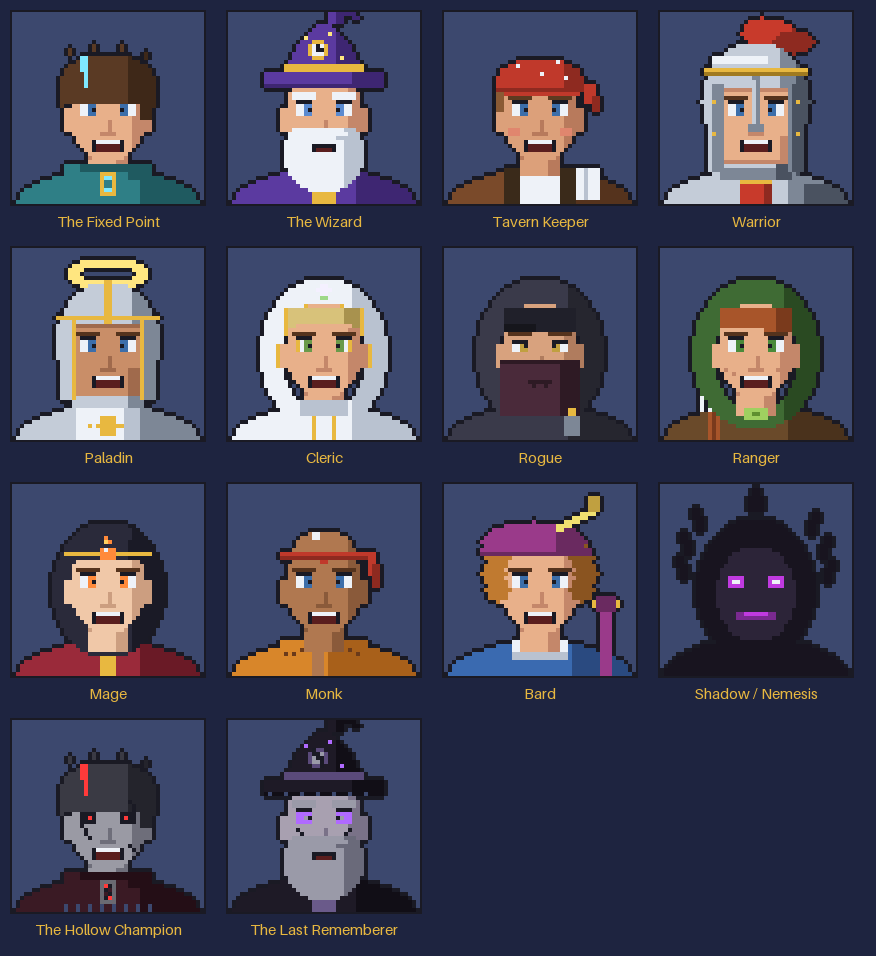
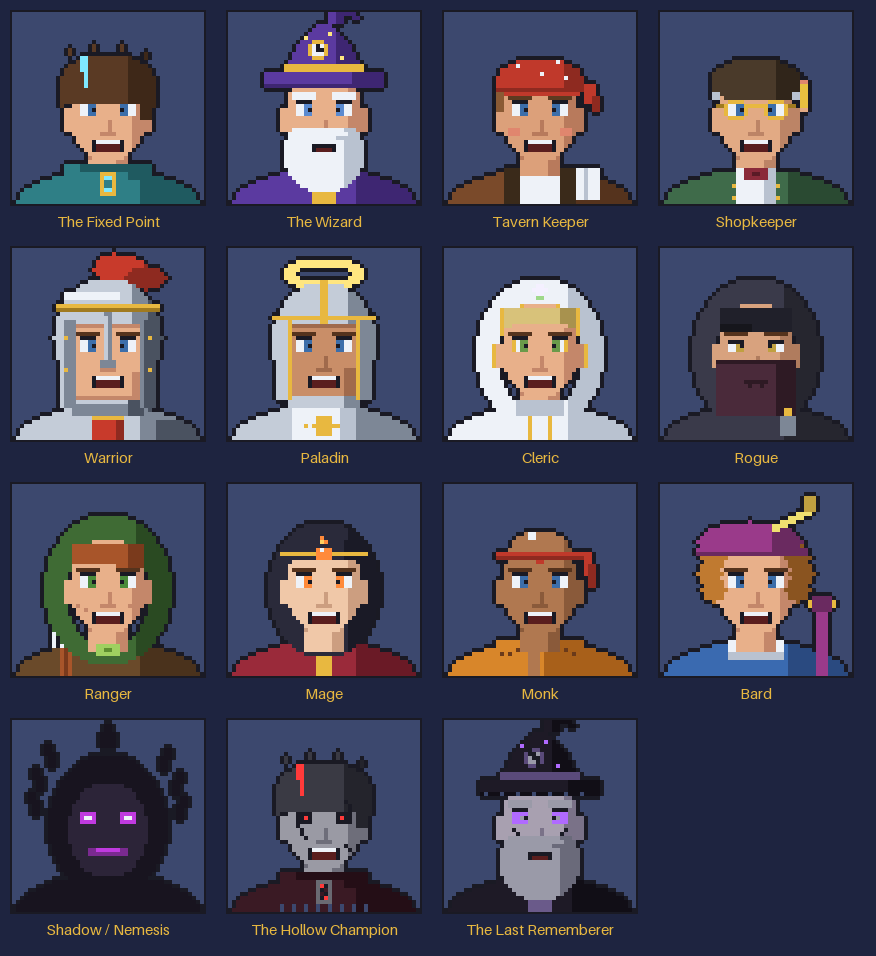
0.6.2: shopkeeper talking portrait
Claude-Session: https://claude.ai/code/session_016di4NyfpktUJ6rZLkcvxnU

diff --git a/index.html b/index.html
@@ -1035,9 +1035,9 @@ function keeperLines(){const F=flags();if(!F.keeperMet){return KEEPER_FIRST}if(!
 /* ======================= dialogue portraits ======================= */
 // 48x48 text portraits, run-length packed ("K3" = KKK). r = mouth closed rows, t = rows that change for the talking frame.
 // Source and preview: tools/portraits.py. Anyone who speaks should go through speak(key, label, lines).
-// Keys: hero, wizard, tavern, warrior, paladin, cleric, rogue, ranger, mage, monk, bard,
+// Keys: hero, wizard, tavern, shopkeeper, warrior, paladin, cleric, rogue, ranger, mage, monk, bard,
 // shadow (any speaking enemy, including a Nemesis), champion (Hollow Champion), rememberer (Last Rememberer).
-const PORTRAITS={"hero":{"n":"The Fixed Point","p":{"A":"#2f7f86","E":"#3c6eaa","G":"#e8b840","H":"#5a3a24","K":"#1a1a24","M":"#5a1e1e","P":"#7fe8ff","S":"#e8b08a","W":"#eef2f8","a":"#1f5a60","g":"#2f7f86","h":"#3e2818","s":"#c4876a"},"r":[".48",".48",".48",".48",".48",".48",".48",".20K.6K.20",".14K.4KHK.4KHK.19",".13KHK.3KHK.4KHK.4K.14",".13KHK.K13.2KhK.13",".14K.KP2H10hK3hK.13",".14K2HP2H10h3K2.14",".13KH3P2H10h5K.13",".12KH4P2H10h6K.12",".12KH5PH10h6K.12",".11KH6PH10h7K.11",".11KH6PH10h7K.11",".11KH6PH10h7K.11",".11KH17h7K.11",".11KH17h7K.11",".11KH17h7K.11",".11KH17h7K.11",".11KHK2S2W2E2S6E2W2sh4K.11",".12KS4W2EKS6KEW2sh3K.12",".12KS4W2E2S6E2W2sh3K.12",".12KS17s2h3K.12",".12KS11sS5s5K.12",".12KS11sS5s5K.12",".12KS11sS5s5K.12",".13K2S7s4S4s3K2.13",".15KS14s2K.15",".15KS14s2K.15",".16KS4sK4sS3sK.16",".17KS12K.17",".18KS10K.18",".18KsS8sK.18",".13K6S7s3K6.13",".12KA4a18K.12",".12KA4a18K.12",".10K3A9G4A3a6K3.10",".7K3A12GP2GA3a9K3.7",".5K2A15Gg2GA6a9K2.5",".3K2A17Gg2GA6a11K2.3",".2KA19GP2GA6a13K.2",".KA20G4A6a14K.",".KA30a14K.","KA31a15K"],"t":{"32":".15KS4KW6KS2s2K.15","33":".16KS3KM6KS2sK.16","34":".17KS2KM6KS2K.17"}},"wizard":{"n":"The Wizard","p":{"A":"#5b3aa0","C":"#e8b840","E":"#5a8ad0","G":"#e8b840","K":"#1a1a24","M":"#5a1e1e","P":"#ffe680","S":"#e8b08a","W":"#eef2f8","a":"#3e2672","s":"#c4876a","w":"#b9c2d0"},"r":[".24KA2a5K.15",".24KA2a2K2a2K.14",".22K3A2a2K.K2.15",".21KA4K3.19",".20KA6K.20",".19KA5PAaK.19",".18KPA7a2K.18",".17KA3G3A3a3K.17",".16KA3GWKWGA2a4K.16",".16KA3GWK2GA2a4K.16",".15KA4GW3GA2a5K.15",".15KA5G3A3aPa3K.15",".14KA12a6K.14",".13KG20K.13",".9K5G20K5.9",".8KA22a8K.8",".8KA22a8K.8",".8KA22a8K.8",".8Ka30K.8",".9K7S14s2K7.9",".14KSW6S4W6sK.14",".14KSW6S4W6sK.14",".14KS2K4S6K4s2K.14",".13K2S2W2E2S6E2W2s2K2.13",".12KS4W2EKS6KEW2s4K.12",".12KS4W2E2S6E2W2s4K.12",".12KS17s5K.12",".12KS11sS5s5K.12",".12KS11sS5s5K.12",".12KS3W13w3s3K.12",".13K2W15w3K2.13",".14KW12w6K.14",".13KW15w5K.13",".13KW7w6W2w5K.13",".13KW15w5K.13",".13KW15w5K.13",".13KW15w5K.13",".13KW15w5K.13",".13KW15w5K.13",".13K2W14w4K2.13",".10K3A2W14w4a2K3.10",".7K3A6W13w3a6K3.7",".5K2A10W12w2Aa9K2.5",".3K2A13W11wA2a11K2.3",".2KA17W8A4a13K.2",".KA19C6A5a14K.",".KA19C6A5a14K.","KA20C6A5a15K"],"t":{"33":".13KW7K6W2w5K.13","34":".13KW7KM4KW2w5K.13"}},"tavern":{"n":"Tavern Keeper","p":{"A":"#7a4a2a","C":"#3a2a1a","E":"#3c6eaa","H":"#8a5a34","K":"#1a1a24","M":"#5a1e1e","P":"#c0392b","R":"#e0866e","S":"#dca07a","W":"#eef2f8","a":"#55331d","h":"#5e3a20","p":"#8e2a20","s":"#b87a5c","w":"#b9c2d0"},"r":[".48",".48",".48",".48",".48",".48",".48",".48",".48",".48",".48",".18K12.18",".16K2P10WPK2.16",".14K2P2WP11p2K2.14",".13KP16p4K.13",".13KP10WP5p4K.13",".12KP17Wp4K.12",".12KP17p5K3.10",".12KP17p5P3K.9",".12Kp22P3K.9",".12KH2P19KP3K.9",".12KH2Sh6S4h6sK2P2p2K.8",".12KH2S2K4S6K4s2K2P2p2K.8",".12KH2S2W2E2S6E2W2s2K4p2K.8",".12KH2S2W2EKS6KEW2s4K2p2K.8",".12KS4W2E2S6E2W2s4K.K2.9",".12KS17s5K.12",".12KS11sS5s5K.12",".12KS11sS5s5K.12",".12KS3R3S5sS4R3s3K.12",".13K2SR3S3s4S3R3sK2.13",".15KS14s2K.15",".15KS14s2K.15",".16KS4sK4sS3sK.16",".17KS12K.17",".18KS10K.18",".18KsS8sK.18",".18KS7s3K.18",".15K4S7s3K10.9",".13K2C4S7s3C4W2wW3K.8",".10K3A2C4S7s3C4W2wW3K.8",".7K3A5C4W10C4W2wW3K2.7",".5K2A8C4W10C4W2wW3a2K2.5",".3K2A10C4W10C4W2wW3a4K2.3",".2KA12C4W10C4W2wW3a6K.2",".KA13C4W10C4W2wW3a7K.",".KA13C4W10C4W2wW3a7K.","KA14C4W10C4a14K"],"t":{"32":".15KS4KW6KS2s2K.15","33":".16KS3KM6KS2sK.16","34":".17KS2KM6KS2K.17"}},"warrior":{"n":"Warrior","p":{"A":"#c83a2b","B":"#55331d","D":"#4a5260","E":"#3c6eaa","G":"#e8b840","K":"#1a1a24","M":"#5a1e1e","S":"#e8b08a","W":"#eef2f8","X":"#c4ccd8","a":"#8e2a20","g":"#a07a20","s":"#c4876a","x":"#7d8796"},"r":[".25K.22",".22K3AK5.17",".21KA9K2.15",".20KA12K.14",".20KA12aK3.11",".19KA10a7K.10",".20KA8a9K.9",".19K3A6a11K.8",".17K2X10a9K.9",".16KX13xa6K.10",".13K3X14x2KaK3.11",".12KW14X3x3K.14",".12KW14X3x4K.13",".11K2X17x4DK2.11",".10KG26K.10",".10Kg26K.10",".11KX11x2X5x4D2K.11",".10KX13xX5x4D3K.10",".10KX2x3X8xX5x3D4K.10",".10KX2x3s7Xxs7xD4K.10",".10KX2x3S7XxS7xD4K.10",".10KX2x3B6SXxSB6xD4K.10",".9KX3Gx2SK4S2XxS2K4SxDGD3K.9",".10KX2x3SW2E2S2XxS2E2W2SxD4K.10",".10KX2x3SW2EKS2XxS2KEW2SxD4K.10",".10KX2x3SW2E2S2XxS2E2W2SxD4K.10",".10KX2x3S7XxS7xD4K.10",".10KX2x3S7XxS7xD4K.10",".11KXx3S6x4S6xD3K.11",".11KXx3S6x4S6xD3K.11",".11KXGx2S6s4S6xDGDK.11",".11KXx3S14s2xD3K.11",".11KXx3S14s2xD3K.11",".11KXx3S5sK4sS3s2xD3K.11",".11KXx3S14s2xD3K.11",".11KXx3S14s2xD3K.11",".11KXx3S14s2xD3K.11",".11KXx3s16xD3K.11",".11KXx3X13D3xD3K.11",".11KXx16D3xD3K.11",".10K3X2x14D4xDK3.10",".7K3X5x14D4x5K3.7",".5K2X13G8X4x9K2.5",".3K2X15A6a2X4x4D7K2.3",".2KX17A6a2X4x4D9K.2",".KX18A6a2X4x4D10K.",".KX18A6a2X4x4D10K.","KX19A6a2X4x4D11K"],"t":{"32":".11KXx3S4KW6KS2s2xD3K.11","33":".11KXx3S4KM6KS2s2xD3K.11","34":".11KXx3S4KM6KS2s2xD3K.11"}},"paladin":{"n":"Paladin","p":{"B":"#55331d","E":"#3c6eaa","G":"#e8b840","K":"#1a1a24","M":"#5a1e1e","P":"#ffe680","S":"#c98e68","W":"#eef2f8","X":"#c4ccd8","s":"#a06a4c","w":"#b9c2d0","x":"#7d8796"},"r":[".48",".48",".17K14.17",".15K2P14K2.15",".14KP18K.14",".13KP4K12P4K.13",".13KP3K.12KP3K.13",".13KP4K12P4K.13",".14KP8G2P8K.14",".15K2P2X4G2X4P2K2.15",".16K2X5G2X5K2.16",".15KX7G2X5x2K.15",".14KX8G2X5x3K.14",".13KX9G2X5x4K.13",".13KX9G2X5x4K.13",".12KX10G2X5x5K.12",".11K2X10G2X5x5K2.11",".10KG26K.10",".11KX3GX7G2X5x2Gx3K.11",".10KX4Gs16Gx4K.10",".10KX4GS16Gx4K.10",".10KX4GB6S4B6Gx4K.10",".10KX4GSK4S6K4SGx4K.10",".10KX4GSW2E2S6E2W2SGx4K.10",".10KX4GSW2EKS6KEW2SGx4K.10",".10KX4GSW2E2S6E2W2SGx4K.10",".10KX4GS16Gx4K.10",".10KX4GS8sS7Gx4K.10",".11KX3GS8sS7Gx3K.11",".11KX3GS8sS7Gx3K.11",".11KX3GS6s4S3s3Gx3K.11",".11KX3GS13s3Gx3K.11",".11KX3GS13s3Gx3K.11",".11KX3GS5sK4sS2s3Gx3K.11",".11KX3GS13s3Gx3K.11",".11KX3GS13s3Gx3K.11",".11KX3GS13s3Gx3K.11",".11KX3GX13x3Gx3K.11",".12K3X14x4K3.12",".13K2X14x4K2.13",".10K3X3W12w4x3K3.10",".7K3X6W12w4x6K3.7",".5K2X9W6G4W2w4x9K2.5",".3K2X11W6G4W2w4x11K2.3",".2KX13W3GWG7w4x13K.2",".KX14W6G4W2w4x14K.",".KX14W6G4W2w4x14K.","KX15W12w4x15K"],"t":{"32":".11KX3GS4KW6KSs3Gx3K.11","33":".11KX3GS4KM6KSs3Gx3K.11","34":".11KX3GS4KM6KSs3Gx3K.11"}},"cleric":{"n":"Cleric","p":{"B":"#55331d","E":"#6a9a4a","G":"#e8b840","H":"#d8c27a","K":"#1a1a24","M":"#5a1e1e","P":"#f4f0ff","S":"#e8b08a","W":"#eef2f8","h":"#a8924e","p":"#9fd88a","s":"#c4876a","w":"#b9c2d0"},"r":[".48",".48",".48",".48",".48",".48",".48",".19K10.19",".17K2W10K2.17",".15K2W6P2W6K2.15",".14KW7P4W5w2K.14",".13KW9P2W6w3K.13",".12KW10p2W6w4K.12",".11KW19w5K.11",".11KW7GS8GW2w5K.11",".10KW3GH14h4Gw3K.10",".9KW4GH14h4Gw4K.9",".9KW4GH14h4Gw4K.9",".8KW5GH14h4Gw5K.8",".8KW5GH2S14h2Gw5K.8",".8KW5GS15s3Gw5K.8",".8KW5GSB6S4B6sGw5K.8",".7KW6KS2K4S6K4s2Kw6K.7",".7KW6KS2GWE2S6E2WGs2Kw6K.7",".7KW4GS4GWEKS6KEWGs4Gw4K.7",".7KW4GS4GWE2S6E2WGs4Gw4K.7",".7KW4GS17s5Gw4K.7",".7KW4GS11sS5s5Gw4K.7",".7KW4GS11sS5s5Gw4K.7",".7KW4GS11sS5s5Gw4K.7",".7KW6KS7s4S4s3Kw6K.7",".8KW5K2S14s2K2w5K.8",".8KW5K2S14s2K2w5K.8",".8KW6K2S4sK4sS3sK2w6K.8",".8KW6K.KS12K.Kw6K.8",".9KW6K.KS10K.Kw6K.9",".9KW6K.KsS8sK.Kw6K.9",".10KW6K2S7s3K2w6K.10",".11KW6w12Ww5K.11",".11KW6w12Ww5K.11",".10K3W5w12Ww4K3.10",".7K3W8w12Ww7K3.7",".5K2W14GW4GW4w10K2.5",".3K2W16GW4GW4w12K2.3",".2KW18GW4GW4w14K.2",".KW19GW4GW4w15K.",".KW19GW4GW4w15K.","KW20GW4GW4w16K"],"t":{"32":".8KW5K2S4KW6KS2s2K2w5K.8","33":".8KW6K2S3KM6KS2sK2w6K.8","34":".8KW6K.KS2KM6KS2K.Kw6K.8"}},"rogue":{"n":"Rogue","p":{"A":"#3a3a4a","B":"#55331d","C":"#4a2a3a","E":"#c0a040","G":"#e8b840","H":"#20202a","K":"#1a1a24","S":"#d8a27e","W":"#eef2f8","a":"#26262f","c":"#2e1a24","h":"#16161c","s":"#b07c5e","x":"#7d8796"},"r":[".48",".48",".48",".48",".48",".48",".48",".19K10.19",".17K2A10K2.17",".15K2A14K2.15",".14KA16a2K.14",".13KA17a3K.13",".12KA18a4K.12",".11KA19a5K.11",".11KA8S8A3a5K.11",".10KA4H18a4K.10",".9KA5H18a5K.9",".9KA5H18a5K.9",".8KA6H18a6K.8",".8KA6h8H10a6K.8",".8KA6h8H10a6K.8",".8KA6SB6S4B6sa6K.8",".7KA6KS15s3Ka6K.7",".7KA6KS2K4S6K4s2Ka6K.7",".7KA5S4W2EKS6KEW2s4a5K.7",".7KA5S4W2E2S6E2W2s4a5K.7",".7KA5S17s5a5K.7",".7KA5S11sS5s5a5K.7",".7KA5Sc20sa5K.7",".7KA5SC15c5sa5K.7",".7KA6C15c5a6K.7",".8KA5C15c5a5K.8",".8KA5C15c5a5K.8",".8KA5C15c5a5K.8",".8KA5C15c5a5K.8",".9KA4C15c5a4K.9",".9KA4C15c5a4K.9",".10KA3C15c5a3K.10",".11KA2C15c5a2K.11",".11KA2C15c5a2K.11",".10K3AC15c2G2caK3.10",".7K3A4C15c2G2ca4K3.7",".5K2A23x4a7K2.5",".3K2A25x4a9K2.3",".2KA27x4a11K.2",".KA28x4a12K.",".KA28x4a12K.","KA30a16K"],"t":{"33":".8KA5C7c6C2c5a5K.8","34":".8KA5C8cC2cC3c5a5K.8"}},"ranger":{"n":"Ranger","p":{"A":"#3f6b34","B":"#55331d","C":"#6a4a2a","E":"#4a8a3a","G":"#9fd060","H":"#a8552a","K":"#1a1a24","M":"#5a1e1e","S":"#e8b08a","W":"#eef2f8","a":"#2a4a22","c":"#4a321c","g":"#5f9030","h":"#7a3a1c","s":"#c4876a"},"r":[".48",".48",".48",".48",".48",".48",".48",".19K10.19",".17K2A10K2.17",".15K2A14K2.15",".14KA16a2K.14",".13KA17a3K.13",".12KA18a4K.12",".11KA19a5K.11",".11KA8S8A3a5K.11",".10KA4H14h4a4K.10",".9KA5H14h4a5K.9",".9KA5H14h4a5K.9",".8KA6H14h4a6K.8",".8KA6H14h4a6K.8",".8KA6S11H3h4a6K.8",".8KA6SB6S4B6sa6K.8",".7KA6KS2K4S6K4s2Ka6K.7",".7KA6KS2W2E2S6E2W2s2Ka6K.7",".7KA5S4W2EKS6KEW2s4a5K.7",".7KA5S4W2E2S6E2W2s4a5K.7",".7KA5S17s5a5K.7",".7KA5S11sS5s5a5K.7",".7KA5S11sS5s5a5K.7",".7KA5S11sS5s5a5K.7",".7KA6KSsS5s4S3s4Ka6K.7",".8KA5K2S2sS11s2K2a5K.8",".8KA5K2S14s2K2a5K.8",".8KA6K2S4sK4sS3sK2a6K.8",".8KA6K.KS12K.Ka6K.8",".9KA6K.KS10K.Ka6K.9",".9KA6K.KsS8sK.Ka6K.9",".9KWA6K2S7s3K2a6K.10",".9KWKA6KS7s3KAa5K.11",".9KWKA7S7s3A2a5K.11",".9KWKWA6S2G6s2A2a4K3.10",".7K3C2HhA5S2G2g2G2s2A2a3c4K3.7",".5K2C5HhHA6G6A4a2c8K2.5",".3K2C7HhHC2A14Cc11K2.3",".2KC9HhHC4A10C3c13K.2",".KC10HhHC17c14K.",".KC10HhHC17c14K.","KC11HhHC17c15K"],"t":{"32":".8KA5K2S4KW6KS2s2K2a5K.8","33":".8KA6K2S3KM6KS2sK2a6K.8","34":".8KA6K.KS2KM6KS2K.Ka6K.8"}},"mage":{"n":"Mage","p":{"A":"#9a2a3a","B":"#55331d","G":"#e8b840","H":"#2a2a3a","K":"#1a1a24","M":"#5a1e1e","P":"#ff8a3a","S":"#f0c8a8","W":"#eef2f8","a":"#6a1a26","h":"#1a1a26","p":"#ffd060","s":"#cc9e80"},"r":[".48",".48",".48",".48",".48",".48",".48",".48",".48",".19K10.19",".17K2H10K2.17",".16KH13hK.16",".15KH14h2K.15",".14KH8PH6h3K.14",".13KH9pPH4h5K.13",".12KH16h6K.12",".12KH9PWP2H3h6K.12",".11KHG9P4G9hK.11",".11KH10P4H3h7K.11",".10KH5S14s2h5K.10",".10KH4S15s3h4K.10",".10KH4SB6S4B6sh4K.10",".9KH5S2K4S6K4s2h5K.9",".9KH5S2W2P2S6P2W2s2h5K.9",".9KH3S4W2PKS6KPW2s4h3K.9",".9KH3S4W2P2S6P2W2s4h3K.9",".9KH3S17s5h3K.9",".9KH3S11sS5s5h3K.9",".9KH3S11sS5s5h3K.9",".9KH3S11sS5s5h3K.9",".9KH5S7s4S4s3h5K.9",".10KH5S14s2h5K.10",".10KH5S14s2h5K.10",".10KH6S4sK4sS3sh6K.10",".11KH6S12h6K.11",".11KH7S10Hh6K.11",".12KH6sS8sHh5K.12",".12KH6S7s3Hh5K.12",".13KH5S7s3Hh4K.13",".13K2H4S7s3Hh3K2.13",".10K3A3H3S7s3Hh2a3K3.10",".7K3A7H2S7s3HhAa6K3.7",".5K2A12H10A3a9K2.5",".3K2A17G4A6a11K2.3",".2KA19G4A6a13K.2",".KA20G4A6a14K.",".KA20G4A6a14K.","KA21G4A6a15K"],"t":{"32":".10KH5S4KW6KS2s2h5K.10","33":".10KH6S3KM6KS2sh6K.10","34":".11KH6S2KM6KS2h6K.11"}},"monk":{"n":"Monk","p":{"A":"#d8862a","B":"#55331d","C":"#c0392b","E":"#3c6eaa","H":"#6a3a1a","K":"#1a1a24","M":"#5a1e1e","P":"#c0392b","S":"#b07850","W":"#eef2f8","a":"#a8601a","c":"#8e2a20","s":"#8a5a3a"},"r":[".48",".48",".48",".48",".48",".48",".48",".48",".48",".48",".48",".20K8.20",".18K2SW2S5K2.18",".17KS3W2S7K.17",".16KS13sK.16",".16KS13sK.16",".13K3S14s2K5.11",".12KC24K.10",".12Kc22C2K.10",".13K3S7P2S5s2K3C2K.10",".14KS15s3K2Cc2K.9",".14KSB6S4B6sK2Cc2K.9",".14KS2K4S6K4s2K2Cc2K.9",".13K2S2W2E2S6E2W2s2K3c2K.9",".12KS4W2EKS6KEW2s4Kc2K.9",".12KS4W2E2S6E2W2s4Kc2K.9",".12KS17s5K3.10",".12KS11sS5s5K.12",".12KS11sS5s5K.12",".12KS11sS5s5K.12",".13K2S7s4S4s3K2.13",".15KS14s2K.15",".15KS14s2K.15",".16KS4sK4sS3sK.16",".17KS12K.17",".18KS10K.18",".18KsS8sK.18",".18KS7s3K.18",".13K6S7s3K6.13",".12KA6S7s3a6K.12",".10K3A6S7s3a6K3.10",".7K3A8HS7s3aHa7K3.7",".5K2A7HAHA4S3Aa7Ha8K2.5",".3K2A16S3Aa18K2.3",".2KA18S3Aa20K.2",".KA19S3Aa21K.",".KA19S3Aa21K.","KA20S3Aa22K"],"t":{"32":".15KS4KW6KS2s2K.15","33":".16KS3KM6KS2sK.16","34":".17KS2KM6KS2K.17"}},"bard":{"n":"Bard","p":{"A":"#3a6ab0","B":"#55331d","C":"#9a3a8a","E":"#3c6eaa","G":"#e8b840","H":"#c07a30","K":"#1a1a24","M":"#5a1e1e","P":"#f0e070","S":"#e8b08a","W":"#eef2f8","a":"#2a4a80","c":"#6a2a60","h":"#8a5420","p":"#c0a040","s":"#c4876a","w":"#b9c2d0"},"r":[".48",".48",".36K3.9",".35Kp3K.8",".35Kp3K.8",".35Kp3K.8",".34K2p3K.8",".32K2P4K.9",".22K.7K2P4K2.10",".15K7CK7P4K2.12",".12K3C13P4K2.14",".11KC16P2c3K.14",".10KC17c6K.13",".9KC18c7K.12",".8KC19c8K.11",".9KC18c7hK.11",".8KC19c9K.10",".8Kc28K.10",".9KH7S13sh7K.9",".10KH5S14s2h5K.10",".9KH6S14s2h6K.9",".9KH5SB6S4B6sh5K.9",".8KH7SK4S6K4sh7K.8",".9KH5S2W2E2S6E2W2s2h5K.9",".9KH6SW2EKS6KEW2sh6K.9",".10KH5SW2E2S6E2W2sh5K.10",".9KH7S13sh7K.9",".10KH5S8sS5s2h5K6.5",".10KH5S8sS5s2h5Kc5K.4",".11K2HS10sS5s4hK2Gc5GK.3",".13K2S7s4S4s3K2.KGc5GK.3",".15KS14s2K.4Kc5K.4",".15KS14s2K.5KC3K.5",".16KS4sK4sS3sK.6KC3K.5",".17KS12K.7KC3K.5",".18KS10K.8KC3K.5",".18KsS8sK.8KC3K.5",".18KS7s3K.8KC3K.5",".17K2S7s3K2.7KC3K.5",".13K4W2S7s3W2K4.3KC3K.5",".10K3A4W2S7s3W2Aa3K4C3K.5",".7K3A7W2S7s3W2Aa6KC3K.5",".5K2A10w14Aa7C3K.5",".3K2A12w14Aa7C3aK2.3",".2KA29a7C3a3K.2",".KA30a7C3a4K.",".KA30a7C3a4K.","KA31a7C3a5K"],"t":{"32":".15KS4KW6KS2s2K.5KC3K.5","33":".16KS3KM6KS2sK.6KC3K.5","34":".17KS2KM6KS2K.7KC3K.5"}},"shadow":{"n":"Shadow / Nemesis","p":{"A":"#18141f","K":"#1a1a24","P":"#c03ae0","W":"#eef2f8","a":"#2c2438","p":"#7a2a90"},"r":[".23K2.23",".22KA2K.22",".22KA2K.22",".21KA4K.21",".21KA4K.21",".8K2.11KA4K.21",".7KA2K.10KA4K.11K2.8",".7KA2K.11K4.11KA2K.7",".7KA3K.7K10.8KA2K.7",".8KA2K.5K2A10K2.5KA3K.7",".8KA2K.4KA14K.4KA2K.8",".5K2.KA2K.3KA16K.3KA2K.8",".4KA2K.K2.3KA18K.2KA2K.K2.5",".4KA2K.5KA20K.2K2.KA2K.4",".4KA3K.3KA22K.4KA2K.4",".5KA2K.2KA24K.2KA3K.4",".5KA2K.2KA8a8A8K.2KA2K.5",".4K2A2K.KA7a12A7K.KA2K.5",".3KA2K2.2KA6a14A6K.KA2K2.4",".3KA2K.2KA7a14A7K.K2A2K.3",".3KA3K.KA6a16A6K.2KA2K.3",".4KA2K.KA5a18A5K.KA3K.3",".4KA2K2A6a18A6K2A2K.4",".4KA2K2A6a2P4a6P4a2A6K2A2K.4",".5K2.KA5a3P4a6P4a3A5K2A2K.4",".8KA5a3P4a6P4a3A5K.K2.5",".8KA5a20A5K.8",".8KA5a20A5K.8",".8KA5a20A5K.8",".8KA5a20A5K.8",".8KA5a20A5K.8",".9KA5a18A5K.9",".9KA5a18A5K.9",".9KA5a6p6a6A5K.9",".10KA5a16A5K.10",".10KA6a14A6K.10",".11KA5a14A5K.11",".11KA6a12A6K.11",".12KA7a8A7K.12",".10K4A20K4.10",".8K2A28K2.8",".6K2A32K2.6",".4K2A36K2.4",".3KA40K.3",".2KA42K.2",".KA44K.","KA46K","KA46K"],"t":{"24":".5K2.KA5a3PW2Pa6PW2Pa3A5K2A2K.4","32":".9KA5a4p2P6p2a4A5K.9","33":".9KA5a4p10a4A5K.9"}},"champion":{"n":"The Hollow Champion","p":{"A":"#3a1a24","G":"#6a6a72","H":"#3a3a44","K":"#1a1a24","M":"#5a1e1e","P":"#ff3a3a","S":"#9a9aa4","W":"#eef2f8","a":"#240e16","g":"#3a1a24","h":"#24242c","s":"#6e6e7a"},"r":[".48",".48",".48",".48",".48",".48",".48",".20K.6K.20",".14K.4KHK.4KHK.19",".13KHK.3KHK.4KHK.4K.14",".13KHK.K13.2KhK.13",".14K.KP2H10hK3hK.13",".14K2HP2H10h3K2.14",".13KH3P2H10h5K.13",".12KH4P2H10h6K.12",".12KH5PH10h6K.12",".11KH6PH10h7K.11",".11KH6PH10h7K.11",".11KH6PH10h7K.11",".11KH17h7K.11",".11KH17Kh6K.11",".11KH17hKh5K.11",".11KH17hKh5K.11",".11KHK2S2K4S6K4sh4K.11",".12KS4K2PKS6KPK2sh3K.12",".12KS4K4S6K4sh3K.12",".12KS4KS12s2h3K.12",".12KS5KS5sS5s5K.12",".12KS5KS5sS5s5K.12",".12KS6KS4sS5s5K.12",".13K2S7s4S4s3K2.13",".15KS13Ks2K.15",".15KS14KsK.15",".16KS4sK4sS3sK.16",".17KS12K.17",".18KS10K.18",".18KsS8sK.18",".13K6S7s3K6.13",".12KA4a18K.12",".12KA4a18K.12",".10K3A9G4A3a6K3.10",".7K3A12GPKGA3a9K3.7",".5K2A15GKgGA6a9K2.5",".3K2A17GgKGA6a11K2.3",".2KA19GKPGA6a13K.2",".KA20G4A6a14K.",".KA11.A2.A2.A2.A2.A2.A2.a2.a11K.","KA12.A2.A2.A2.A2.A2.A2.a2.a12K"],"t":{"32":".15KS4KW6KS2KsK.15","33":".16KS3KM6KS2sK.16","34":".17KS2KM6KS2K.17"}},"rememberer":{"n":"The Last Rememberer","p":{"A":"#1e1a26","C":"#6a5a8a","G":"#5a4a7a","K":"#1a1a24","M":"#5a1e1e","P":"#b06aff","S":"#a8a0b0","W":"#9a9aa8","a":"#110e16","s":"#7a7288","w":"#6a6a7a"},"r":[".24KA2a5K.15",".24KA2a2K2a2K.14",".22K3A2a2K.K2.15",".21KA4K3.19",".20KA6K.20",".19KA5PAaK.19",".18KPA7a2K.18",".17KA3KG2A3a3K.17",".16KA3GK2WGA2a4K.16",".16KA3GWK2GA2a4K.16",".15KA4GW2KGA2a5K.15",".15KA5G2KA3aPa3K.15",".14KA12a6K.14",".13KG20K.13",".9K5G20K5.9",".8KA22a8K.8",".8KA22a8K.8",".8KA22a8K.8",".8Ka.a3.a3.a3.a3.a3.a3.a4K.8",".9K7S14s2K7.9",".14KSW6S4W6sK.14",".14KSW6S4W6sK.14",".14KS2K4S6K4s2K.14",".13K2S2P4S6P4s2K2.13",".12KS4P2WKS6KWP2s4K.12",".12KS4P4S6P4s4K.12",".12KS17s5K.12",".12KS4KS6sS5Ks4K.12",".12KS5KS5sS4Ks5K.12",".12KS3W13w3s3K.12",".13K2W15w3K2.13",".14KW12w6K.14",".13KW15w5K.13",".13KW7w6W2w5K.13",".13KW15w5K.13",".13KW15w5K.13",".13KW15w5K.13",".13KW15w5K.13",".13KW15w5K.13",".13K2W14w4K2.13",".10K3A2W14w4a2K3.10",".7K3A6W13w3a6K3.7",".5K2A10W12w2Aa9K2.5",".3K2A13W11wA2a11K2.3",".2KA17W8A4a13K.2",".KA19C6A5a14K.",".KA19C6A5a14K.","KA20C6A5a15K"],"t":{"33":".13KW7K6W2w5K.13","34":".13KW7KM4KW2w5K.13"}}};
+const PORTRAITS={"hero":{"n":"The Fixed Point","p":{"A":"#2f7f86","E":"#3c6eaa","G":"#e8b840","H":"#5a3a24","K":"#1a1a24","M":"#5a1e1e","P":"#7fe8ff","S":"#e8b08a","W":"#eef2f8","a":"#1f5a60","g":"#2f7f86","h":"#3e2818","s":"#c4876a"},"r":[".48",".48",".48",".48",".48",".48",".48",".20K.6K.20",".14K.4KHK.4KHK.19",".13KHK.3KHK.4KHK.4K.14",".13KHK.K13.2KhK.13",".14K.KP2H10hK3hK.13",".14K2HP2H10h3K2.14",".13KH3P2H10h5K.13",".12KH4P2H10h6K.12",".12KH5PH10h6K.12",".11KH6PH10h7K.11",".11KH6PH10h7K.11",".11KH6PH10h7K.11",".11KH17h7K.11",".11KH17h7K.11",".11KH17h7K.11",".11KH17h7K.11",".11KHK2S2W2E2S6E2W2sh4K.11",".12KS4W2EKS6KEW2sh3K.12",".12KS4W2E2S6E2W2sh3K.12",".12KS17s2h3K.12",".12KS11sS5s5K.12",".12KS11sS5s5K.12",".12KS11sS5s5K.12",".13K2S7s4S4s3K2.13",".15KS14s2K.15",".15KS14s2K.15",".16KS4sK4sS3sK.16",".17KS12K.17",".18KS10K.18",".18KsS8sK.18",".13K6S7s3K6.13",".12KA4a18K.12",".12KA4a18K.12",".10K3A9G4A3a6K3.10",".7K3A12GP2GA3a9K3.7",".5K2A15Gg2GA6a9K2.5",".3K2A17Gg2GA6a11K2.3",".2KA19GP2GA6a13K.2",".KA20G4A6a14K.",".KA30a14K.","KA31a15K"],"t":{"32":".15KS4KW6KS2s2K.15","33":".16KS3KM6KS2sK.16","34":".17KS2KM6KS2K.17"}},"wizard":{"n":"The Wizard","p":{"A":"#5b3aa0","C":"#e8b840","E":"#5a8ad0","G":"#e8b840","K":"#1a1a24","M":"#5a1e1e","P":"#ffe680","S":"#e8b08a","W":"#eef2f8","a":"#3e2672","s":"#c4876a","w":"#b9c2d0"},"r":[".24KA2a5K.15",".24KA2a2K2a2K.14",".22K3A2a2K.K2.15",".21KA4K3.19",".20KA6K.20",".19KA5PAaK.19",".18KPA7a2K.18",".17KA3G3A3a3K.17",".16KA3GWKWGA2a4K.16",".16KA3GWK2GA2a4K.16",".15KA4GW3GA2a5K.15",".15KA5G3A3aPa3K.15",".14KA12a6K.14",".13KG20K.13",".9K5G20K5.9",".8KA22a8K.8",".8KA22a8K.8",".8KA22a8K.8",".8Ka30K.8",".9K7S14s2K7.9",".14KSW6S4W6sK.14",".14KSW6S4W6sK.14",".14KS2K4S6K4s2K.14",".13K2S2W2E2S6E2W2s2K2.13",".12KS4W2EKS6KEW2s4K.12",".12KS4W2E2S6E2W2s4K.12",".12KS17s5K.12",".12KS11sS5s5K.12",".12KS11sS5s5K.12",".12KS3W13w3s3K.12",".13K2W15w3K2.13",".14KW12w6K.14",".13KW15w5K.13",".13KW7w6W2w5K.13",".13KW15w5K.13",".13KW15w5K.13",".13KW15w5K.13",".13KW15w5K.13",".13KW15w5K.13",".13K2W14w4K2.13",".10K3A2W14w4a2K3.10",".7K3A6W13w3a6K3.7",".5K2A10W12w2Aa9K2.5",".3K2A13W11wA2a11K2.3",".2KA17W8A4a13K.2",".KA19C6A5a14K.",".KA19C6A5a14K.","KA20C6A5a15K"],"t":{"33":".13KW7K6W2w5K.13","34":".13KW7KM4KW2w5K.13"}},"tavern":{"n":"Tavern Keeper","p":{"A":"#7a4a2a","C":"#3a2a1a","E":"#3c6eaa","H":"#8a5a34","K":"#1a1a24","M":"#5a1e1e","P":"#c0392b","R":"#e0866e","S":"#dca07a","W":"#eef2f8","a":"#55331d","h":"#5e3a20","p":"#8e2a20","s":"#b87a5c","w":"#b9c2d0"},"r":[".48",".48",".48",".48",".48",".48",".48",".48",".48",".48",".48",".18K12.18",".16K2P10WPK2.16",".14K2P2WP11p2K2.14",".13KP16p4K.13",".13KP10WP5p4K.13",".12KP17Wp4K.12",".12KP17p5K3.10",".12KP17p5P3K.9",".12Kp22P3K.9",".12KH2P19KP3K.9",".12KH2Sh6S4h6sK2P2p2K.8",".12KH2S2K4S6K4s2K2P2p2K.8",".12KH2S2W2E2S6E2W2s2K4p2K.8",".12KH2S2W2EKS6KEW2s4K2p2K.8",".12KS4W2E2S6E2W2s4K.K2.9",".12KS17s5K.12",".12KS11sS5s5K.12",".12KS11sS5s5K.12",".12KS3R3S5sS4R3s3K.12",".13K2SR3S3s4S3R3sK2.13",".15KS14s2K.15",".15KS14s2K.15",".16KS4sK4sS3sK.16",".17KS12K.17",".18KS10K.18",".18KsS8sK.18",".18KS7s3K.18",".15K4S7s3K10.9",".13K2C4S7s3C4W2wW3K.8",".10K3A2C4S7s3C4W2wW3K.8",".7K3A5C4W10C4W2wW3K2.7",".5K2A8C4W10C4W2wW3a2K2.5",".3K2A10C4W10C4W2wW3a4K2.3",".2KA12C4W10C4W2wW3a6K.2",".KA13C4W10C4W2wW3a7K.",".KA13C4W10C4W2wW3a7K.","KA14C4W10C4a14K"],"t":{"32":".15KS4KW6KS2s2K.15","33":".16KS3KM6KS2sK.16","34":".17KS2KM6KS2K.17"}},"shopkeeper":{"n":"Shopkeeper","p":{"A":"#3f6b4a","C":"#e8c040","E":"#3c6eaa","G":"#e8b840","H":"#4a3a2a","K":"#1a1a24","M":"#5a1e1e","P":"#8a2a3a","R":"#e0866e","S":"#e2aa84","W":"#eef2f8","a":"#2a4a32","g":"#a07a20","h":"#30251a","p":"#5a1a26","s":"#bc8466","w":"#b9c2d0"},"r":[".48",".48",".48",".48",".48",".48",".48",".48",".48",".48",".48",".18K12.18",".16K2H11hK2.16",".14K2H13h3K2.14",".13KH15h5K.13",".12KH16h6K.12",".12KH16h6K2.11",".12KH16h6R2K.10",".12KH16h6C2K.10",".12KH16h6C2K.10",".12Kw2H14h4w2C2K.10",".12Kw2SH13h4w2C2K.10",".13K2S2G4S6G4s2K2C2K.10",".13Kg2GW2E2G6E2W2Gg2KC2K.10",".12KS3GW2EKGS4GKEW2Gs3S2K.10",".12KS3GW2E2GS4GE2W2Gs3K2.11",".12KS4G4S6G4s4K.12",".12KS11sS5s5K.12",".12KS11sS5s5K.12",".12KS11sS5s5K.12",".13K2S7s4S4s3K2.13",".15KS14s2K.15",".15KS14s2K.15",".16KS4sK4sS3sK.16",".17KS12K.17",".18KS10K.18",".18KsS8sK.18",".18KS7s3K.18",".18KS7s3K.18",".13K6W2P6w2K6.13",".10K3A6W2P2p2P2w2A3a3K3.10",".7K3A9W2P6w2A3a6K3.7",".5K2A12W7w3A3a9K2.5",".3K2A13GW7w3GA2a11K2.3",".2KA16W7w3A3a13K.2",".KA17W7w3A3a14K.",".KA16GW7w3GA2a14K.","KA18W7w3A3a15K"],"t":{"32":".15KS4KW6KS2s2K.15","33":".16KS3KM6KS2sK.16","34":".17KS2KM6KS2K.17"}},"warrior":{"n":"Warrior","p":{"A":"#c83a2b","B":"#55331d","D":"#4a5260","E":"#3c6eaa","G":"#e8b840","K":"#1a1a24","M":"#5a1e1e","S":"#e8b08a","W":"#eef2f8","X":"#c4ccd8","a":"#8e2a20","g":"#a07a20","s":"#c4876a","x":"#7d8796"},"r":[".25K.22",".22K3AK5.17",".21KA9K2.15",".20KA12K.14",".20KA12aK3.11",".19KA10a7K.10",".20KA8a9K.9",".19K3A6a11K.8",".17K2X10a9K.9",".16KX13xa6K.10",".13K3X14x2KaK3.11",".12KW14X3x3K.14",".12KW14X3x4K.13",".11K2X17x4DK2.11",".10KG26K.10",".10Kg26K.10",".11KX11x2X5x4D2K.11",".10KX13xX5x4D3K.10",".10KX2x3X8xX5x3D4K.10",".10KX2x3s7Xxs7xD4K.10",".10KX2x3S7XxS7xD4K.10",".10KX2x3B6SXxSB6xD4K.10",".9KX3Gx2SK4S2XxS2K4SxDGD3K.9",".10KX2x3SW2E2S2XxS2E2W2SxD4K.10",".10KX2x3SW2EKS2XxS2KEW2SxD4K.10",".10KX2x3SW2E2S2XxS2E2W2SxD4K.10",".10KX2x3S7XxS7xD4K.10",".10KX2x3S7XxS7xD4K.10",".11KXx3S6x4S6xD3K.11",".11KXx3S6x4S6xD3K.11",".11KXGx2S6s4S6xDGDK.11",".11KXx3S14s2xD3K.11",".11KXx3S14s2xD3K.11",".11KXx3S5sK4sS3s2xD3K.11",".11KXx3S14s2xD3K.11",".11KXx3S14s2xD3K.11",".11KXx3S14s2xD3K.11",".11KXx3s16xD3K.11",".11KXx3X13D3xD3K.11",".11KXx16D3xD3K.11",".10K3X2x14D4xDK3.10",".7K3X5x14D4x5K3.7",".5K2X13G8X4x9K2.5",".3K2X15A6a2X4x4D7K2.3",".2KX17A6a2X4x4D9K.2",".KX18A6a2X4x4D10K.",".KX18A6a2X4x4D10K.","KX19A6a2X4x4D11K"],"t":{"32":".11KXx3S4KW6KS2s2xD3K.11","33":".11KXx3S4KM6KS2s2xD3K.11","34":".11KXx3S4KM6KS2s2xD3K.11"}},"paladin":{"n":"Paladin","p":{"B":"#55331d","E":"#3c6eaa","G":"#e8b840","K":"#1a1a24","M":"#5a1e1e","P":"#ffe680","S":"#c98e68","W":"#eef2f8","X":"#c4ccd8","s":"#a06a4c","w":"#b9c2d0","x":"#7d8796"},"r":[".48",".48",".17K14.17",".15K2P14K2.15",".14KP18K.14",".13KP4K12P4K.13",".13KP3K.12KP3K.13",".13KP4K12P4K.13",".14KP8G2P8K.14",".15K2P2X4G2X4P2K2.15",".16K2X5G2X5K2.16",".15KX7G2X5x2K.15",".14KX8G2X5x3K.14",".13KX9G2X5x4K.13",".13KX9G2X5x4K.13",".12KX10G2X5x5K.12",".11K2X10G2X5x5K2.11",".10KG26K.10",".11KX3GX7G2X5x2Gx3K.11",".10KX4Gs16Gx4K.10",".10KX4GS16Gx4K.10",".10KX4GB6S4B6Gx4K.10",".10KX4GSK4S6K4SGx4K.10",".10KX4GSW2E2S6E2W2SGx4K.10",".10KX4GSW2EKS6KEW2SGx4K.10",".10KX4GSW2E2S6E2W2SGx4K.10",".10KX4GS16Gx4K.10",".10KX4GS8sS7Gx4K.10",".11KX3GS8sS7Gx3K.11",".11KX3GS8sS7Gx3K.11",".11KX3GS6s4S3s3Gx3K.11",".11KX3GS13s3Gx3K.11",".11KX3GS13s3Gx3K.11",".11KX3GS5sK4sS2s3Gx3K.11",".11KX3GS13s3Gx3K.11",".11KX3GS13s3Gx3K.11",".11KX3GS13s3Gx3K.11",".11KX3GX13x3Gx3K.11",".12K3X14x4K3.12",".13K2X14x4K2.13",".10K3X3W12w4x3K3.10",".7K3X6W12w4x6K3.7",".5K2X9W6G4W2w4x9K2.5",".3K2X11W6G4W2w4x11K2.3",".2KX13W3GWG7w4x13K.2",".KX14W6G4W2w4x14K.",".KX14W6G4W2w4x14K.","KX15W12w4x15K"],"t":{"32":".11KX3GS4KW6KSs3Gx3K.11","33":".11KX3GS4KM6KSs3Gx3K.11","34":".11KX3GS4KM6KSs3Gx3K.11"}},"cleric":{"n":"Cleric","p":{"B":"#55331d","E":"#6a9a4a","G":"#e8b840","H":"#d8c27a","K":"#1a1a24","M":"#5a1e1e","P":"#f4f0ff","S":"#e8b08a","W":"#eef2f8","h":"#a8924e","p":"#9fd88a","s":"#c4876a","w":"#b9c2d0"},"r":[".48",".48",".48",".48",".48",".48",".48",".19K10.19",".17K2W10K2.17",".15K2W6P2W6K2.15",".14KW7P4W5w2K.14",".13KW9P2W6w3K.13",".12KW10p2W6w4K.12",".11KW19w5K.11",".11KW7GS8GW2w5K.11",".10KW3GH14h4Gw3K.10",".9KW4GH14h4Gw4K.9",".9KW4GH14h4Gw4K.9",".8KW5GH14h4Gw5K.8",".8KW5GH2S14h2Gw5K.8",".8KW5GS15s3Gw5K.8",".8KW5GSB6S4B6sGw5K.8",".7KW6KS2K4S6K4s2Kw6K.7",".7KW6KS2GWE2S6E2WGs2Kw6K.7",".7KW4GS4GWEKS6KEWGs4Gw4K.7",".7KW4GS4GWE2S6E2WGs4Gw4K.7",".7KW4GS17s5Gw4K.7",".7KW4GS11sS5s5Gw4K.7",".7KW4GS11sS5s5Gw4K.7",".7KW4GS11sS5s5Gw4K.7",".7KW6KS7s4S4s3Kw6K.7",".8KW5K2S14s2K2w5K.8",".8KW5K2S14s2K2w5K.8",".8KW6K2S4sK4sS3sK2w6K.8",".8KW6K.KS12K.Kw6K.8",".9KW6K.KS10K.Kw6K.9",".9KW6K.KsS8sK.Kw6K.9",".10KW6K2S7s3K2w6K.10",".11KW6w12Ww5K.11",".11KW6w12Ww5K.11",".10K3W5w12Ww4K3.10",".7K3W8w12Ww7K3.7",".5K2W14GW4GW4w10K2.5",".3K2W16GW4GW4w12K2.3",".2KW18GW4GW4w14K.2",".KW19GW4GW4w15K.",".KW19GW4GW4w15K.","KW20GW4GW4w16K"],"t":{"32":".8KW5K2S4KW6KS2s2K2w5K.8","33":".8KW6K2S3KM6KS2sK2w6K.8","34":".8KW6K.KS2KM6KS2K.Kw6K.8"}},"rogue":{"n":"Rogue","p":{"A":"#3a3a4a","B":"#55331d","C":"#4a2a3a","E":"#c0a040","G":"#e8b840","H":"#20202a","K":"#1a1a24","S":"#d8a27e","W":"#eef2f8","a":"#26262f","c":"#2e1a24","h":"#16161c","s":"#b07c5e","x":"#7d8796"},"r":[".48",".48",".48",".48",".48",".48",".48",".19K10.19",".17K2A10K2.17",".15K2A14K2.15",".14KA16a2K.14",".13KA17a3K.13",".12KA18a4K.12",".11KA19a5K.11",".11KA8S8A3a5K.11",".10KA4H18a4K.10",".9KA5H18a5K.9",".9KA5H18a5K.9",".8KA6H18a6K.8",".8KA6h8H10a6K.8",".8KA6h8H10a6K.8",".8KA6SB6S4B6sa6K.8",".7KA6KS15s3Ka6K.7",".7KA6KS2K4S6K4s2Ka6K.7",".7KA5S4W2EKS6KEW2s4a5K.7",".7KA5S4W2E2S6E2W2s4a5K.7",".7KA5S17s5a5K.7",".7KA5S11sS5s5a5K.7",".7KA5Sc20sa5K.7",".7KA5SC15c5sa5K.7",".7KA6C15c5a6K.7",".8KA5C15c5a5K.8",".8KA5C15c5a5K.8",".8KA5C15c5a5K.8",".8KA5C15c5a5K.8",".9KA4C15c5a4K.9",".9KA4C15c5a4K.9",".10KA3C15c5a3K.10",".11KA2C15c5a2K.11",".11KA2C15c5a2K.11",".10K3AC15c2G2caK3.10",".7K3A4C15c2G2ca4K3.7",".5K2A23x4a7K2.5",".3K2A25x4a9K2.3",".2KA27x4a11K.2",".KA28x4a12K.",".KA28x4a12K.","KA30a16K"],"t":{"33":".8KA5C7c6C2c5a5K.8","34":".8KA5C8cC2cC3c5a5K.8"}},"ranger":{"n":"Ranger","p":{"A":"#3f6b34","B":"#55331d","C":"#6a4a2a","E":"#4a8a3a","G":"#9fd060","H":"#a8552a","K":"#1a1a24","M":"#5a1e1e","S":"#e8b08a","W":"#eef2f8","a":"#2a4a22","c":"#4a321c","g":"#5f9030","h":"#7a3a1c","s":"#c4876a"},"r":[".48",".48",".48",".48",".48",".48",".48",".19K10.19",".17K2A10K2.17",".15K2A14K2.15",".14KA16a2K.14",".13KA17a3K.13",".12KA18a4K.12",".11KA19a5K.11",".11KA8S8A3a5K.11",".10KA4H14h4a4K.10",".9KA5H14h4a5K.9",".9KA5H14h4a5K.9",".8KA6H14h4a6K.8",".8KA6H14h4a6K.8",".8KA6S11H3h4a6K.8",".8KA6SB6S4B6sa6K.8",".7KA6KS2K4S6K4s2Ka6K.7",".7KA6KS2W2E2S6E2W2s2Ka6K.7",".7KA5S4W2EKS6KEW2s4a5K.7",".7KA5S4W2E2S6E2W2s4a5K.7",".7KA5S17s5a5K.7",".7KA5S11sS5s5a5K.7",".7KA5S11sS5s5a5K.7",".7KA5S11sS5s5a5K.7",".7KA6KSsS5s4S3s4Ka6K.7",".8KA5K2S2sS11s2K2a5K.8",".8KA5K2S14s2K2a5K.8",".8KA6K2S4sK4sS3sK2a6K.8",".8KA6K.KS12K.Ka6K.8",".9KA6K.KS10K.Ka6K.9",".9KA6K.KsS8sK.Ka6K.9",".9KWA6K2S7s3K2a6K.10",".9KWKA6KS7s3KAa5K.11",".9KWKA7S7s3A2a5K.11",".9KWKWA6S2G6s2A2a4K3.10",".7K3C2HhA5S2G2g2G2s2A2a3c4K3.7",".5K2C5HhHA6G6A4a2c8K2.5",".3K2C7HhHC2A14Cc11K2.3",".2KC9HhHC4A10C3c13K.2",".KC10HhHC17c14K.",".KC10HhHC17c14K.","KC11HhHC17c15K"],"t":{"32":".8KA5K2S4KW6KS2s2K2a5K.8","33":".8KA6K2S3KM6KS2sK2a6K.8","34":".8KA6K.KS2KM6KS2K.Ka6K.8"}},"mage":{"n":"Mage","p":{"A":"#9a2a3a","B":"#55331d","G":"#e8b840","H":"#2a2a3a","K":"#1a1a24","M":"#5a1e1e","P":"#ff8a3a","S":"#f0c8a8","W":"#eef2f8","a":"#6a1a26","h":"#1a1a26","p":"#ffd060","s":"#cc9e80"},"r":[".48",".48",".48",".48",".48",".48",".48",".48",".48",".19K10.19",".17K2H10K2.17",".16KH13hK.16",".15KH14h2K.15",".14KH8PH6h3K.14",".13KH9pPH4h5K.13",".12KH16h6K.12",".12KH9PWP2H3h6K.12",".11KHG9P4G9hK.11",".11KH10P4H3h7K.11",".10KH5S14s2h5K.10",".10KH4S15s3h4K.10",".10KH4SB6S4B6sh4K.10",".9KH5S2K4S6K4s2h5K.9",".9KH5S2W2P2S6P2W2s2h5K.9",".9KH3S4W2PKS6KPW2s4h3K.9",".9KH3S4W2P2S6P2W2s4h3K.9",".9KH3S17s5h3K.9",".9KH3S11sS5s5h3K.9",".9KH3S11sS5s5h3K.9",".9KH3S11sS5s5h3K.9",".9KH5S7s4S4s3h5K.9",".10KH5S14s2h5K.10",".10KH5S14s2h5K.10",".10KH6S4sK4sS3sh6K.10",".11KH6S12h6K.11",".11KH7S10Hh6K.11",".12KH6sS8sHh5K.12",".12KH6S7s3Hh5K.12",".13KH5S7s3Hh4K.13",".13K2H4S7s3Hh3K2.13",".10K3A3H3S7s3Hh2a3K3.10",".7K3A7H2S7s3HhAa6K3.7",".5K2A12H10A3a9K2.5",".3K2A17G4A6a11K2.3",".2KA19G4A6a13K.2",".KA20G4A6a14K.",".KA20G4A6a14K.","KA21G4A6a15K"],"t":{"32":".10KH5S4KW6KS2s2h5K.10","33":".10KH6S3KM6KS2sh6K.10","34":".11KH6S2KM6KS2h6K.11"}},"monk":{"n":"Monk","p":{"A":"#d8862a","B":"#55331d","C":"#c0392b","E":"#3c6eaa","H":"#6a3a1a","K":"#1a1a24","M":"#5a1e1e","P":"#c0392b","S":"#b07850","W":"#eef2f8","a":"#a8601a","c":"#8e2a20","s":"#8a5a3a"},"r":[".48",".48",".48",".48",".48",".48",".48",".48",".48",".48",".48",".20K8.20",".18K2SW2S5K2.18",".17KS3W2S7K.17",".16KS13sK.16",".16KS13sK.16",".13K3S14s2K5.11",".12KC24K.10",".12Kc22C2K.10",".13K3S7P2S5s2K3C2K.10",".14KS15s3K2Cc2K.9",".14KSB6S4B6sK2Cc2K.9",".14KS2K4S6K4s2K2Cc2K.9",".13K2S2W2E2S6E2W2s2K3c2K.9",".12KS4W2EKS6KEW2s4Kc2K.9",".12KS4W2E2S6E2W2s4Kc2K.9",".12KS17s5K3.10",".12KS11sS5s5K.12",".12KS11sS5s5K.12",".12KS11sS5s5K.12",".13K2S7s4S4s3K2.13",".15KS14s2K.15",".15KS14s2K.15",".16KS4sK4sS3sK.16",".17KS12K.17",".18KS10K.18",".18KsS8sK.18",".18KS7s3K.18",".13K6S7s3K6.13",".12KA6S7s3a6K.12",".10K3A6S7s3a6K3.10",".7K3A8HS7s3aHa7K3.7",".5K2A7HAHA4S3Aa7Ha8K2.5",".3K2A16S3Aa18K2.3",".2KA18S3Aa20K.2",".KA19S3Aa21K.",".KA19S3Aa21K.","KA20S3Aa22K"],"t":{"32":".15KS4KW6KS2s2K.15","33":".16KS3KM6KS2sK.16","34":".17KS2KM6KS2K.17"}},"bard":{"n":"Bard","p":{"A":"#3a6ab0","B":"#55331d","C":"#9a3a8a","E":"#3c6eaa","G":"#e8b840","H":"#c07a30","K":"#1a1a24","M":"#5a1e1e","P":"#f0e070","S":"#e8b08a","W":"#eef2f8","a":"#2a4a80","c":"#6a2a60","h":"#8a5420","p":"#c0a040","s":"#c4876a","w":"#b9c2d0"},"r":[".48",".48",".36K3.9",".35Kp3K.8",".35Kp3K.8",".35Kp3K.8",".34K2p3K.8",".32K2P4K.9",".22K.7K2P4K2.10",".15K7CK7P4K2.12",".12K3C13P4K2.14",".11KC16P2c3K.14",".10KC17c6K.13",".9KC18c7K.12",".8KC19c8K.11",".9KC18c7hK.11",".8KC19c9K.10",".8Kc28K.10",".9KH7S13sh7K.9",".10KH5S14s2h5K.10",".9KH6S14s2h6K.9",".9KH5SB6S4B6sh5K.9",".8KH7SK4S6K4sh7K.8",".9KH5S2W2E2S6E2W2s2h5K.9",".9KH6SW2EKS6KEW2sh6K.9",".10KH5SW2E2S6E2W2sh5K.10",".9KH7S13sh7K.9",".10KH5S8sS5s2h5K6.5",".10KH5S8sS5s2h5Kc5K.4",".11K2HS10sS5s4hK2Gc5GK.3",".13K2S7s4S4s3K2.KGc5GK.3",".15KS14s2K.4Kc5K.4",".15KS14s2K.5KC3K.5",".16KS4sK4sS3sK.6KC3K.5",".17KS12K.7KC3K.5",".18KS10K.8KC3K.5",".18KsS8sK.8KC3K.5",".18KS7s3K.8KC3K.5",".17K2S7s3K2.7KC3K.5",".13K4W2S7s3W2K4.3KC3K.5",".10K3A4W2S7s3W2Aa3K4C3K.5",".7K3A7W2S7s3W2Aa6KC3K.5",".5K2A10w14Aa7C3K.5",".3K2A12w14Aa7C3aK2.3",".2KA29a7C3a3K.2",".KA30a7C3a4K.",".KA30a7C3a4K.","KA31a7C3a5K"],"t":{"32":".15KS4KW6KS2s2K.5KC3K.5","33":".16KS3KM6KS2sK.6KC3K.5","34":".17KS2KM6KS2K.7KC3K.5"}},"shadow":{"n":"Shadow / Nemesis","p":{"A":"#18141f","K":"#1a1a24","P":"#c03ae0","W":"#eef2f8","a":"#2c2438","p":"#7a2a90"},"r":[".23K2.23",".22KA2K.22",".22KA2K.22",".21KA4K.21",".21KA4K.21",".8K2.11KA4K.21",".7KA2K.10KA4K.11K2.8",".7KA2K.11K4.11KA2K.7",".7KA3K.7K10.8KA2K.7",".8KA2K.5K2A10K2.5KA3K.7",".8KA2K.4KA14K.4KA2K.8",".5K2.KA2K.3KA16K.3KA2K.8",".4KA2K.K2.3KA18K.2KA2K.K2.5",".4KA2K.5KA20K.2K2.KA2K.4",".4KA3K.3KA22K.4KA2K.4",".5KA2K.2KA24K.2KA3K.4",".5KA2K.2KA8a8A8K.2KA2K.5",".4K2A2K.KA7a12A7K.KA2K.5",".3KA2K2.2KA6a14A6K.KA2K2.4",".3KA2K.2KA7a14A7K.K2A2K.3",".3KA3K.KA6a16A6K.2KA2K.3",".4KA2K.KA5a18A5K.KA3K.3",".4KA2K2A6a18A6K2A2K.4",".4KA2K2A6a2P4a6P4a2A6K2A2K.4",".5K2.KA5a3P4a6P4a3A5K2A2K.4",".8KA5a3P4a6P4a3A5K.K2.5",".8KA5a20A5K.8",".8KA5a20A5K.8",".8KA5a20A5K.8",".8KA5a20A5K.8",".8KA5a20A5K.8",".9KA5a18A5K.9",".9KA5a18A5K.9",".9KA5a6p6a6A5K.9",".10KA5a16A5K.10",".10KA6a14A6K.10",".11KA5a14A5K.11",".11KA6a12A6K.11",".12KA7a8A7K.12",".10K4A20K4.10",".8K2A28K2.8",".6K2A32K2.6",".4K2A36K2.4",".3KA40K.3",".2KA42K.2",".KA44K.","KA46K","KA46K"],"t":{"24":".5K2.KA5a3PW2Pa6PW2Pa3A5K2A2K.4","32":".9KA5a4p2P6p2a4A5K.9","33":".9KA5a4p10a4A5K.9"}},"champion":{"n":"The Hollow Champion","p":{"A":"#3a1a24","G":"#6a6a72","H":"#3a3a44","K":"#1a1a24","M":"#5a1e1e","P":"#ff3a3a","S":"#9a9aa4","W":"#eef2f8","a":"#240e16","g":"#3a1a24","h":"#24242c","s":"#6e6e7a"},"r":[".48",".48",".48",".48",".48",".48",".48",".20K.6K.20",".14K.4KHK.4KHK.19",".13KHK.3KHK.4KHK.4K.14",".13KHK.K13.2KhK.13",".14K.KP2H10hK3hK.13",".14K2HP2H10h3K2.14",".13KH3P2H10h5K.13",".12KH4P2H10h6K.12",".12KH5PH10h6K.12",".11KH6PH10h7K.11",".11KH6PH10h7K.11",".11KH6PH10h7K.11",".11KH17h7K.11",".11KH17Kh6K.11",".11KH17hKh5K.11",".11KH17hKh5K.11",".11KHK2S2K4S6K4sh4K.11",".12KS4K2PKS6KPK2sh3K.12",".12KS4K4S6K4sh3K.12",".12KS4KS12s2h3K.12",".12KS5KS5sS5s5K.12",".12KS5KS5sS5s5K.12",".12KS6KS4sS5s5K.12",".13K2S7s4S4s3K2.13",".15KS13Ks2K.15",".15KS14KsK.15",".16KS4sK4sS3sK.16",".17KS12K.17",".18KS10K.18",".18KsS8sK.18",".13K6S7s3K6.13",".12KA4a18K.12",".12KA4a18K.12",".10K3A9G4A3a6K3.10",".7K3A12GPKGA3a9K3.7",".5K2A15GKgGA6a9K2.5",".3K2A17GgKGA6a11K2.3",".2KA19GKPGA6a13K.2",".KA20G4A6a14K.",".KA11.A2.A2.A2.A2.A2.A2.a2.a11K.","KA12.A2.A2.A2.A2.A2.A2.a2.a12K"],"t":{"32":".15KS4KW6KS2KsK.15","33":".16KS3KM6KS2sK.16","34":".17KS2KM6KS2K.17"}},"rememberer":{"n":"The Last Rememberer","p":{"A":"#1e1a26","C":"#6a5a8a","G":"#5a4a7a","K":"#1a1a24","M":"#5a1e1e","P":"#b06aff","S":"#a8a0b0","W":"#9a9aa8","a":"#110e16","s":"#7a7288","w":"#6a6a7a"},"r":[".24KA2a5K.15",".24KA2a2K2a2K.14",".22K3A2a2K.K2.15",".21KA4K3.19",".20KA6K.20",".19KA5PAaK.19",".18KPA7a2K.18",".17KA3KG2A3a3K.17",".16KA3GK2WGA2a4K.16",".16KA3GWK2GA2a4K.16",".15KA4GW2KGA2a5K.15",".15KA5G2KA3aPa3K.15",".14KA12a6K.14",".13KG20K.13",".9K5G20K5.9",".8KA22a8K.8",".8KA22a8K.8",".8KA22a8K.8",".8Ka.a3.a3.a3.a3.a3.a3.a4K.8",".9K7S14s2K7.9",".14KSW6S4W6sK.14",".14KSW6S4W6sK.14",".14KS2K4S6K4s2K.14",".13K2S2P4S6P4s2K2.13",".12KS4P2WKS6KWP2s4K.12",".12KS4P4S6P4s4K.12",".12KS17s5K.12",".12KS4KS6sS5Ks4K.12",".12KS5KS5sS4Ks5K.12",".12KS3W13w3s3K.12",".13K2W15w3K2.13",".14KW12w6K.14",".13KW15w5K.13",".13KW7w6W2w5K.13",".13KW15w5K.13",".13KW15w5K.13",".13KW15w5K.13",".13KW15w5K.13",".13KW15w5K.13",".13K2W14w4K2.13",".10K3A2W14w4a2K3.10",".7K3A6W13w3a6K3.7",".5K2A10W12w2Aa9K2.5",".3K2A13W11wA2a11K2.3",".2KA17W8A4a13K.2",".KA19C6A5a14K.",".KA19C6A5a14K.","KA20C6A5a15K"],"t":{"33":".13KW7K6W2w5K.13","34":".13KW7KM4KW2w5K.13"}}};
 const PT_CACHE={};
 const unRle=s=>s.replace(/(\D)(\d*)/g,(m,c,n)=>c.repeat(n?+n:1));
 function portraitURL(key,talk){
@@ -1386,7 +1386,7 @@ function townMapHTML(){
 }
 
 /* ======================= version, settings, sound, reviews ======================= */
-const GAME_VERSION='0.6.1';
+const GAME_VERSION='0.6.2';
 const KOFI='https://ko-fi.com/kralnu90';
 const SET=Object.assign({speed:'normal',sound:true,text:'normal',tools:false},store.get('t2r-settings')||{});
 function applySet(){document.body.classList.toggle('big',SET.text==='large')}
@@ -1627,7 +1627,7 @@ function storeSheet(){
   ensureEconomy();if(!UI.shopLine||UI.shopLoop!==M.loop){UI.shopLine=pick(SHOP_LINES);UI.shopLoop=M.loop}
   const packed=STORE.filter(([k])=>M.pack[k]).map(([k,n])=>`${n} ×${M.pack[k]}`).concat((M.pack.gear||[]).map(it=>esc(it.name))).join(', ');
   return `<div class="eyebrow">The General Store · Loop ${M.loop}</div><h2>Supplies</h2>
-    <div class="wizard"><span class="eyebrow">The shopkeeper</span><q>${esc(UI.shopLine)}</q></div>
+    ${speak('shopkeeper','The shopkeeper',[UI.shopLine])}
     <div class="turnline"><span class="small">Your purse: <b style="color:var(--brass)">${M.gold} gold</b></span><span class="small">Potion limit ${potionCap()}</span></div>
     <div class="events">${STORE.filter(([k])=>k in M.store.stock).map(([k,n,,,desc])=>{const p=priceOf(k),left=M.store.stock[k]||0,capped=k==='potion'&&2+(M.pack.potion||0)>=potionCap();
       return `<div class="item"><span class="nm">${n}</span><span class="st">${desc}</span><span class="st">${left} in stock${M.pack[k]?` · packed ${M.pack[k]}`:''}</span>
@@ -2101,7 +2101,7 @@ html:not(.kg-can-install) [data-install]{display:none!important}
 // Kralnu Games update check. When you push an update, change the game's version
 // AND version.json to the same new value; players then get a "new version" notice.
 (function(){
-  var NAME="30× to Remember",BUILD="0.6.1",CACHES=["tr-"],CHECK=true;
+  var NAME="30× to Remember",BUILD="0.6.2",CACHES=["tr-"],CHECK=true;
   var path=location.pathname,dir=path.replace(/[^/]*$/,''),last=0,bar=null,busy=false;
   if(/^\?v=\d+$/.test(location.search)){try{history.replaceState(history.state,'',path+location.hash)}catch(e){}}
   function build(){return String(window.kgBuild!=null?window.kgBuild:BUILD)}

diff --git a/tools/portraits.py b/tools/portraits.py
@@ -285,6 +285,28 @@ def bard(talk):
     k.rect(3, 6, 36, 38, 'p')
     return k.outline()
 
+def shopkeeper(talk):
+    k = C(); shoulders(k, 'A', 'a'); neck(k)
+    k.rect(39, 47, 19, 28, 'W'); k.rect(39, 47, 26, 28, 'w')     # shirt front
+    k.rect(39, 41, 21, 26, 'P'); k.rect(40, 40, 23, 24, 'p')       # bow tie
+    for r in (43, 46): k.px(r, 18, 'G'); k.px(r, 29, 'G')          # waistcoat buttons
+    standard_face(k, talk, iris='E', brow='h')
+    # round spectacles
+    for c0 in (16, 26):
+        k.rect(22, 22, c0 + 1, c0 + 4, 'G'); k.rect(26, 26, c0 + 1, c0 + 4, 'G')
+        k.rect(23, 25, c0, c0, 'G'); k.rect(23, 25, c0 + 5, c0 + 5, 'G')
+    k.rect(23, 23, 22, 25, 'G')
+    k.rect(23, 23, 14, 15, 'g'); k.rect(23, 23, 32, 33, 'g')       # arms to ears
+    # neat side-parted hair
+    k.ell(17, 23.5, 6, 11, 'H', 10, 21)
+    k.rect(15, 20, 13, 15, 'H'); k.rect(15, 21, 32, 34, 'H')
+    k.rect(18, 19, 16, 20, 'H'); k.rect(18, 18, 21, 31, 'H')
+    k.recolour(10, 21, 29, 35, 'H', 'h')
+    k.rect(20, 21, 13, 14, 'w'); k.rect(20, 21, 33, 34, 'w')       # greying temples
+    # pencil tucked behind ear
+    k.rect(17, 24, 35, 36, 'C'); k.rect(17, 17, 35, 36, 'R'); k.rect(24, 24, 35, 36, 'S')
+    return k.outline()
+
 def shadow(talk):
     k = C()
     k.ell(48, 23.5, 10, 23, 'A', 37)
@@ -348,6 +370,7 @@ CAST = [
     ('hero', 'The Fixed Point', hero, P(H='#5a3a24', h='#3e2818', A='#2f7f86', a='#1f5a60', P='#7fe8ff', g='#2f7f86')),
     ('wizard', 'The Wizard', wizard, P(A='#5b3aa0', a='#3e2672', C='#e8b840', P='#ffe680', E='#5a8ad0')),
     ('tavern', 'Tavern Keeper', tavern, P(A='#7a4a2a', a='#55331d', C='#3a2a1a', P='#c0392b', p='#8e2a20', H='#8a5a34', h='#5e3a20', S='#dca07a', s='#b87a5c')),
+    ('shopkeeper', 'Shopkeeper', shopkeeper, P(A='#3f6b4a', a='#2a4a32', P='#8a2a3a', p='#5a1a26', H='#4a3a2a', h='#30251a', C='#e8c040', R='#e0866e', S='#e2aa84', s='#bc8466')),
     ('warrior', 'Warrior', warrior, P(A='#c83a2b', a='#8e2a20')),
     ('paladin', 'Paladin', paladin, P(P='#ffe680', E='#3c6eaa', S='#c98e68', s='#a06a4c')),
     ('cleric', 'Cleric', cleric, P(H='#d8c27a', h='#a8924e', P='#f4f0ff', p='#9fd88a', E='#6a9a4a')),

diff --git a/NOTES.md b/NOTES.md
@@ -29,7 +29,7 @@ Upload this file at the start of a new session so Claude can pick up where we le
 - **Economy (since 0.4.0):** `M.gold` persists (the wizard enchanted the hero's purse). `STORE` items are bought into `M.pack`, unpacked in `startRun` (items, start time, `S.buffs`), then `M.pack` is cleared. `M.store` stock rerolls each loop (`rollStore`). Selling (`sellItem`) only in the frozen window after a cleared run. Crystal sinks: binding at the Cottage (`bindItem`, cost rises with `M.binds`) and the Sanctum (`SANCTUM`, `M.sanctum`, cost = base × (rank+1)^1.5). `ensureEconomy()` fills missing fields on old saves.
 - **Healing (since 0.3.0):** `healPower(a,pct)` = pct% of the healer's weapon damage (can crit); `applyHeal` caps at max life and tracks overheal. Cleric Lily gauge lives on the run copy of the member (`lilies`, `lilyUsed`, `blood`): Holy Light grows a Lily, Lily Mend spends one, 3 Lily Mends give a Blood Lily for Misery. Rewind sets `regen`, ticked in `startTurn`.
 - **Battle scene:** pixel art drawn in code. `SPR` holds one text sprite per class and enemy shape; `FOE_LOOK` maps each enemy name to a sprite, palette and flags (`big`, `warp`, `float`, `flip`). `palOf(m)` colours a companion from their name colour plus a hash of their id; strangers get faded colours.
-- **Dialogue portraits (since 0.6.1):** `PORTRAITS` holds 14 packed 48×48 text portraits (mouth closed + talking rows). **Every line of dialogue should go through `speak(key, label, lines)`**, which draws the portrait box and plays the talk animation. Keys: `hero`, `wizard`, `tavern`, the 8 class keys, `shadow` (any speaking enemy, including a Nemesis), `champion` (Hollow Champion), `rememberer` (Last Rememberer). Class portraits are gender-neutral. The shopkeeper has no portrait on purpose. Source: `tools/portraits.py` makes the PNGs and `portraits.js`; `tools/pack.py` packs them into the `PORTRAITS` line.
+- **Dialogue portraits (since 0.6.1):** `PORTRAITS` holds 15 packed 48×48 text portraits (mouth closed + talking rows). **Every line of dialogue should go through `speak(key, label, lines)`**, which draws the portrait box and plays the talk animation. Keys: `hero`, `wizard`, `tavern`, `shopkeeper`, the 8 class keys, `shadow` (any speaking enemy, including a Nemesis), `champion` (Hollow Champion), `rememberer` (Last Rememberer). Class portraits are gender-neutral. Source: `tools/portraits.py` makes the PNGs and `portraits.js`; `tools/pack.py` packs them into the `PORTRAITS` line.
 - **Battle animations:** the engine pushes events with `bfx()` (`hit`, `miss`, `ehit`, `emiss`, `heal`, `buff`). `BAT` queues them and `stepBattle()` plays them one by one. The fight summary waits until the queue is empty (`batBusy()`). Settings → Battle speed runs more steps per frame.
 - **Backgrounds:** `makeBg(era)` (present night street with clocktower, future overgrown ruin), cached in `BAT.bg`.
 - **Hamlet map:** `makeTown()` paints the static map once, `drawTown()` animates the rift, river, windows, smoke, fire and fireflies. Places are HTML buttons over the canvas (`T_PLACES`, boxes in map cells), so they stay tappable and keyboard friendly.

diff --git a/README.md b/README.md
@@ -20,6 +20,9 @@ This is an early build. Things will change, and saves may reset between versions
 
 ## Changelog
 
+### 0.6.2 · 12 November 2026
+- The shopkeeper at the General Store now has a talking portrait too
+
 ### 0.6.1 · 12 November 2026
 - **Talking portraits:** the wizard, the tavern keeper and every companion you hire now speak from a pixel-art portrait that moves its mouth as they talk
 - 14 portraits are ready for the story: the hero, the wizard, the tavern keeper, one for each class, a shadow for speaking enemies and Nemeses, and the two final bosses
